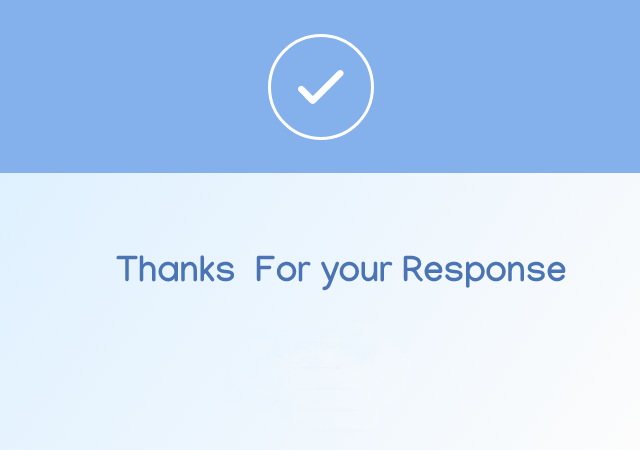
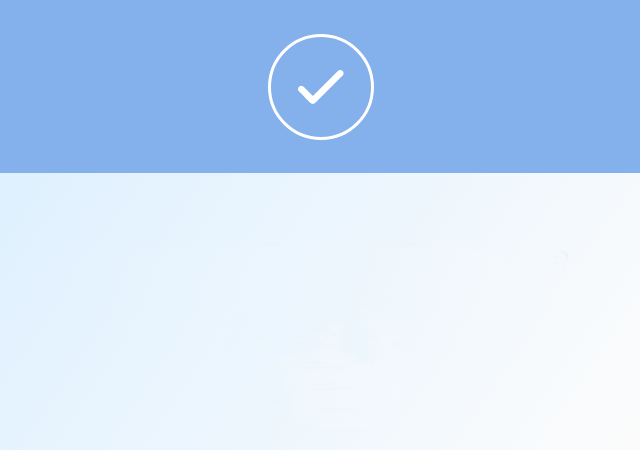
Feedback component added and Thanks page modified

Changed region(s): [[0.1875, 0.56, 0.9062, 0.6533]]

diff --git a/static/src/app/app-routing.module.ts b/static/src/app/app-routing.module.ts
@@ -53,6 +53,7 @@ import { UserlistComponent } from '../components/userlist/userlist.component';
 import { HttpService } from "./http.service";
 import { ActionsComponent } from "src/components/actions/actions.component";
 import { ThankyouComponent } from '../components/thankyou/thankyou.component';
+import { FeedbackComponent } from '../components/feedback/feedback.component';
 import { EsigndocresultsComponent } from "src/components/esigndocresults/esigndocresults.component";
 
 
@@ -67,6 +68,7 @@ const appRoutes: Routes = [
     { path: 'set-password', component: SetpasswordComponent},
     { path: 'reset-password/:token', component: SetpasswordComponent},
     { path: 'thanks', component: ThankyouComponent},
+    { path: 'feedback', component: FeedbackComponent},
 
     { path: 'my-profile', component: ProfileDetailsComponent, canActivate: [AuthGuard]},
     { path: 'my-profile/edit', component: ProfileeditComponent, canActivate: [AuthGuard]},	

diff --git a/static/src/app/app.module.ts b/static/src/app/app.module.ts
@@ -87,6 +87,7 @@ import { MovetomyfolderComponent } from '../components/movetomyfolder/movetomyfo
 import { ThankyouComponent } from '../components/thankyou/thankyou.component';
 import { TopiceditComponent } from '../components/topicedit/topicedit.component';
 import { EsigndocresultsComponent } from '../components/esigndocresults/esigndocresults.component';
+import { FeedbackComponent } from '../components/feedback/feedback.component';
 
 @NgModule({
     imports: [
@@ -164,6 +165,7 @@ import { EsigndocresultsComponent } from '../components/esigndocresults/esigndoc
         ThankyouComponent,
         TopiceditComponent,
         EsigndocresultsComponent,
+        FeedbackComponent,
     ],
     providers:[
         AuthGuard,

diff --git a/static/assets/css/components/thankyou.css b/static/assets/css/components/thankyou.css
@@ -1,0 +1,37 @@
+.thankyou{
+    display: flex;
+    align-items: center;
+    justify-content: center;
+    height: calc(100vh - 70px);
+}
+.thanks-content {
+    width: 85%;
+  }
+
+.thanks-content img{
+    width: 100%;
+}  
+.circle{
+    height: 15vh;
+}
+.circle img{
+    width: 100%;
+    height: 100%;
+    object-fit: contain;
+    background-color: #84B0EB;
+}
+.centered {
+    height: 250px;
+    background-image: url('/static/assets/images/thankyou1.png');
+    background-size: cover;
+    display: flex;
+    align-items: center;
+    justify-content: center;
+    flex-direction: column;
+    text-align: center;
+}
+.centered p{
+    font-size: 2rem;
+    margin-bottom: 1.5rem;
+    color: #4b74b5;
+}

diff --git a/static/src/components/feedback/feedback.component.spec.ts b/static/src/components/feedback/feedback.component.spec.ts
@@ -1,0 +1,25 @@
+import { async, ComponentFixture, TestBed } from '@angular/core/testing';
+
+import { FeedbackComponent } from './feedback.component';
+
+describe('FeedbackComponent', () => {
+  let component: FeedbackComponent;
+  let fixture: ComponentFixture<FeedbackComponent>;
+
+  beforeEach(async(() => {
+    TestBed.configureTestingModule({
+      declarations: [ FeedbackComponent ]
+    })
+    .compileComponents();
+  }));
+
+  beforeEach(() => {
+    fixture = TestBed.createComponent(FeedbackComponent);
+    component = fixture.componentInstance;
+    fixture.detectChanges();
+  });
+
+  it('should create', () => {
+    expect(component).toBeTruthy();
+  });
+});

diff --git a/static/src/components/feedback/feedback.component.html b/static/src/components/feedback/feedback.component.html
@@ -1,11 +1,8 @@
 <div class="thankyou">
     <div class="thanks-content">
-        <div class="circle">
-            <img src="/static/assets/images/thankyou2.png" alt="Icon">
-        </div>
         <div>
             <div  class="centered">
-                <p>Thanks For Your Response</p>
+                <p>Thanks For Your Feedback</p>
                 <a routerLink="/" class="btn btn-primary">Done</a>
             </div>
         </div>

diff --git a/static/src/components/feedback/feedback.component.ts b/static/src/components/feedback/feedback.component.ts
@@ -1,0 +1,15 @@
+import { Component, OnInit } from '@angular/core';
+
+@Component({
+  selector: 'app-feedback',
+  templateUrl: './feedback.component.html',
+  styleUrls: ['./feedback.component.css']
+})
+export class FeedbackComponent implements OnInit {
+
+  constructor() { }
+
+  ngOnInit() {
+  }
+
+}
